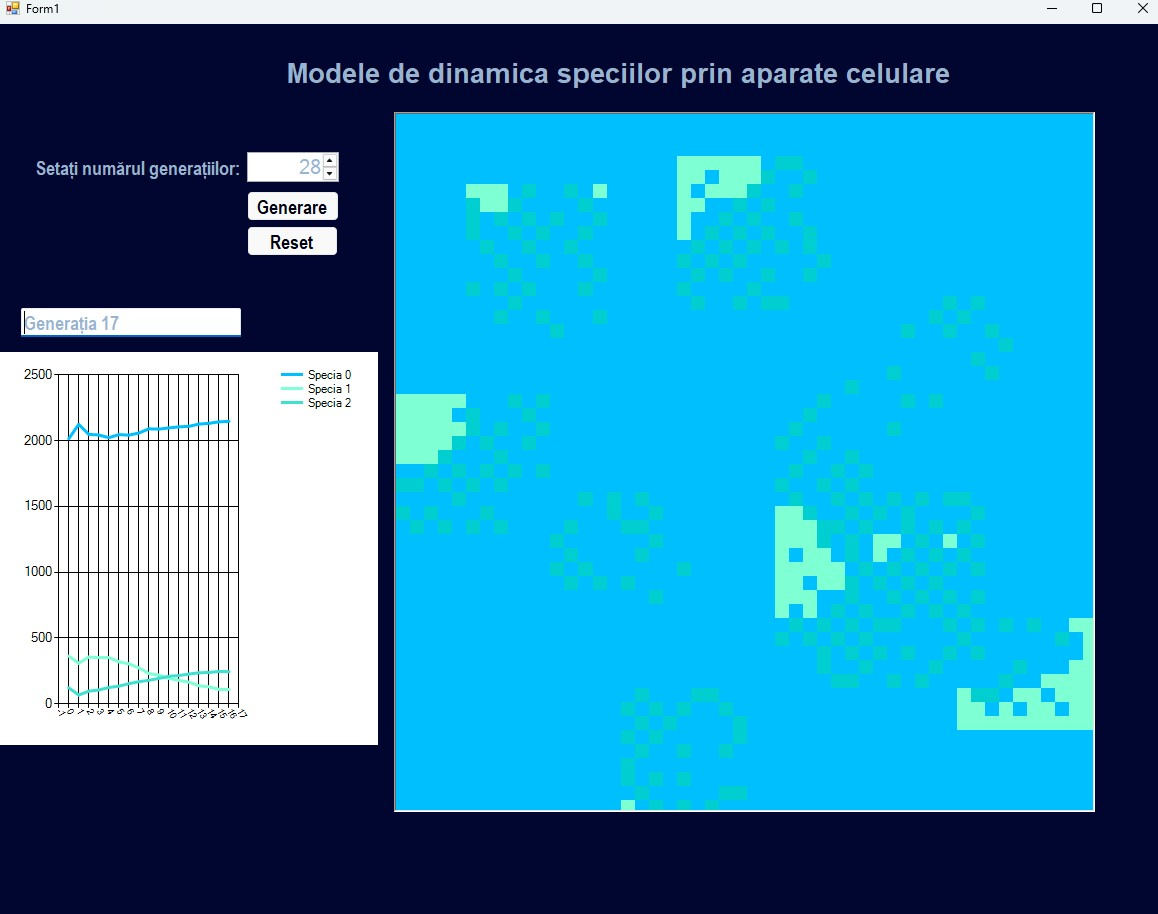
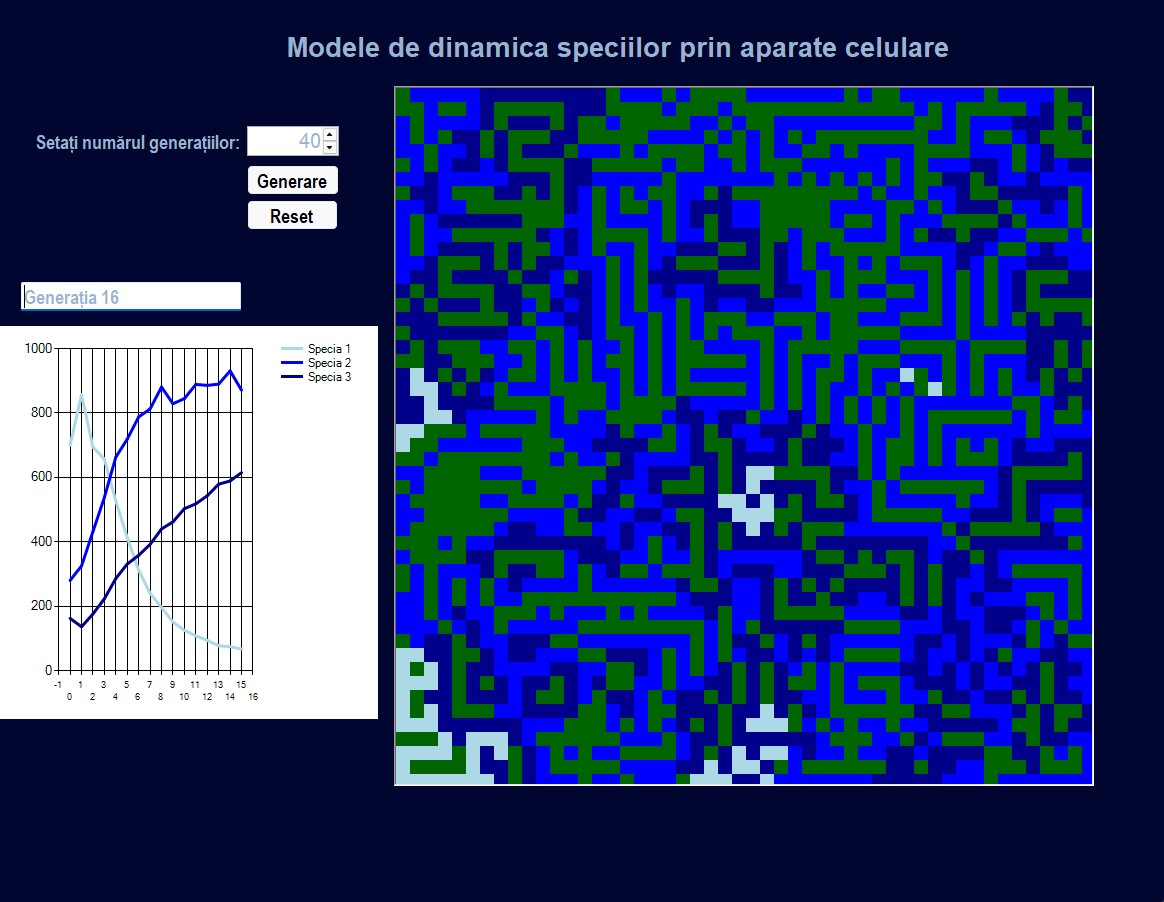
Docs: Modify README with details of the SOLID Arhitecture

diff --git a/README.md b/README.md
@@ -8,35 +8,51 @@ Each cell on the grid holds a species state. Every generation, cells evaluate th
 
 ---
 
-## Getting Started
+## 🏗 Architecture (SOLID Principles)
+
+This project was recently refactored to strictly adhere to **SOLID principles**, ensuring clean, maintainable, and highly decoupled code:
+
+* **`SimulationEngine`**: The core business logic. Calculates neighbor states and applies transition laws without any dependencies on the UI.
+* **`GridState`**: A pure data model holding the 50x50 matrix and population tracking.
+* **`GridRenderer`**: Handles all graphical responsibilities (mapping species to colors and rendering the grid via GDI+).
+* **`DataLoader`**: A dedicated file parser that reads initial grid states and transition laws from `.txt` files.
+* **`Form1`**: Acts purely as the UI coordinator, completely decoupled from the simulation math and file parsing.
+
+---
+
+## 🚀 Getting Started
 
 1. Clone the repo and open `SpeciesDynamicsSimulator.sln` in Visual Studio (2019+, .NET Framework 4.x).
 2. Build and run (`F5`).
-3. Set the number of generations and click **Start**. Use **Reset** to return to the initial state.
+3. Set the number of generations and click **Generare (Start)**. Use **Reset** to return to the initial state.
 
 ---
 
-## Input Files
+## 📂 Input Files
+
+The simulation loads data from text files at startup. Default files included:
 
 | File | Purpose |
 |---|---|
-| `Species.txt` | Initial 50×50 grid — space-separated integers, one row per line |
-| `NewLaws.txt` | Transition rules, one per line |
+| `3SpeciesMatrix.txt` / `2SpeciesMatrix.txt` | Initial 50×50 grid — space-separated integers, one row per line. |
+| `PreyPredatorPredatorCompetitionLaws.txt` | Transition rules, one per line. |
 
 ---
 
-## Law Syntax
+## 📜 Law Syntax
 
-```
-CurrentState {Species[min,max]; ...} NextState
-```
+Transition laws are defined using the following syntax:
 
-A cell transitions if **all** neighbour conditions are met. The first matching rule wins. Neighbours are counted using Von Neumann (4 directions).
+`CurrentState {Species[min,max]; ...} NextState block/allow`
 
+A cell transitions to the `NextState` if **all** neighbour conditions are met. Neighbours are counted using the Moore neighborhood. 
 
+**Example:**
+`1 {1[2,4]; 2[0,1]} 0 -`
+*(If a cell of Species 1 has between 2 to 4 neighbors of Species 1, and 0 to 1 neighbors of Species 2, it transforms into Species 0).*
 
 ---
 
-## Contributing
+## 🤝 Contributing
 
 This project is developed in collaboration and is not open to external contributions. If you are the designated collaborator, create a feature branch, make your changes, and open a Pull Request against `main`. At least 1 approval is required to merge.
